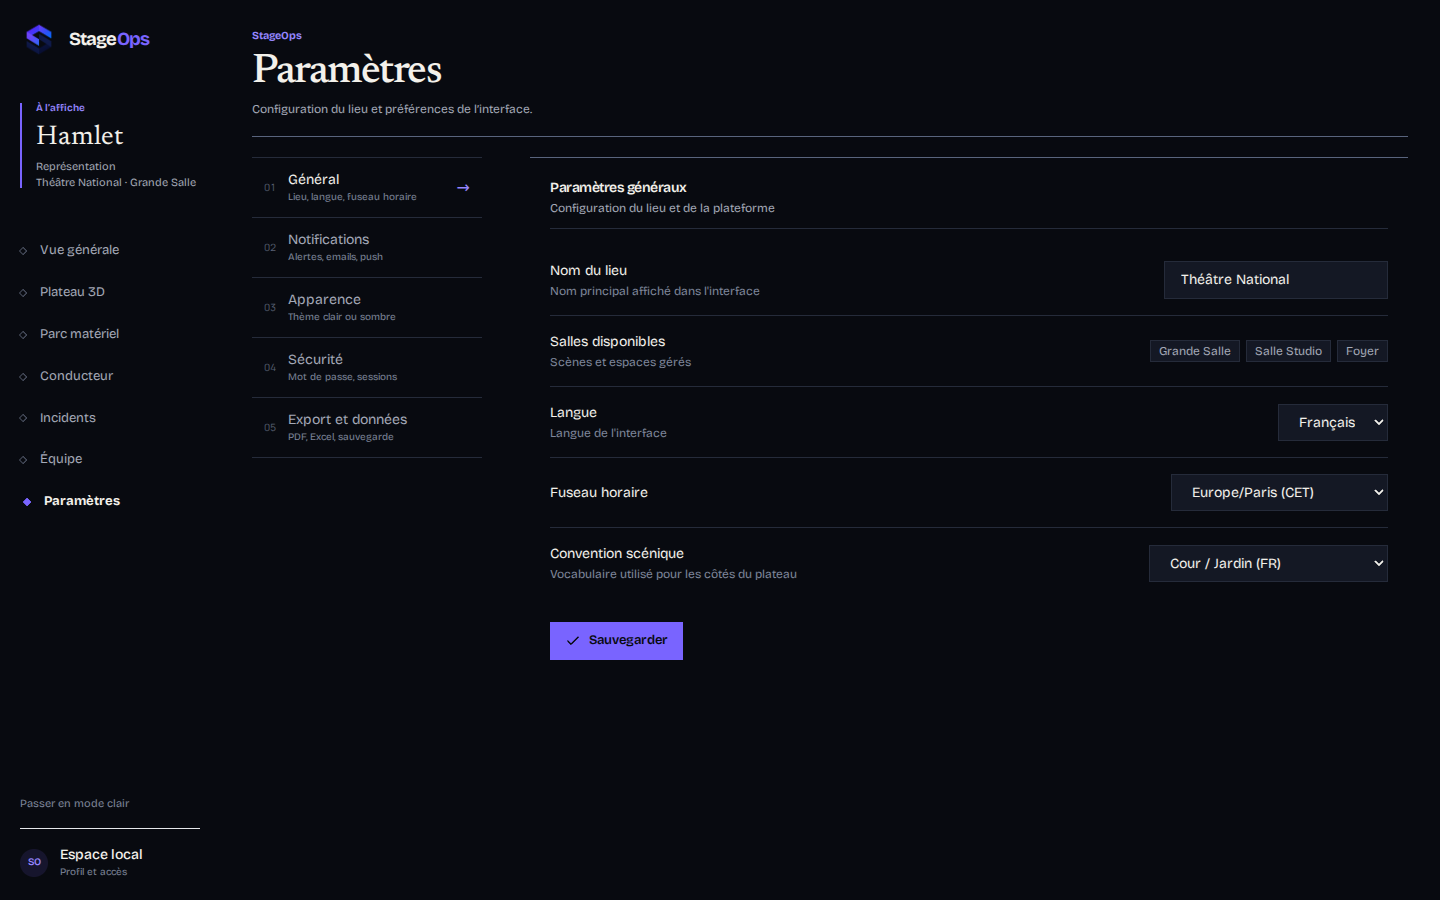
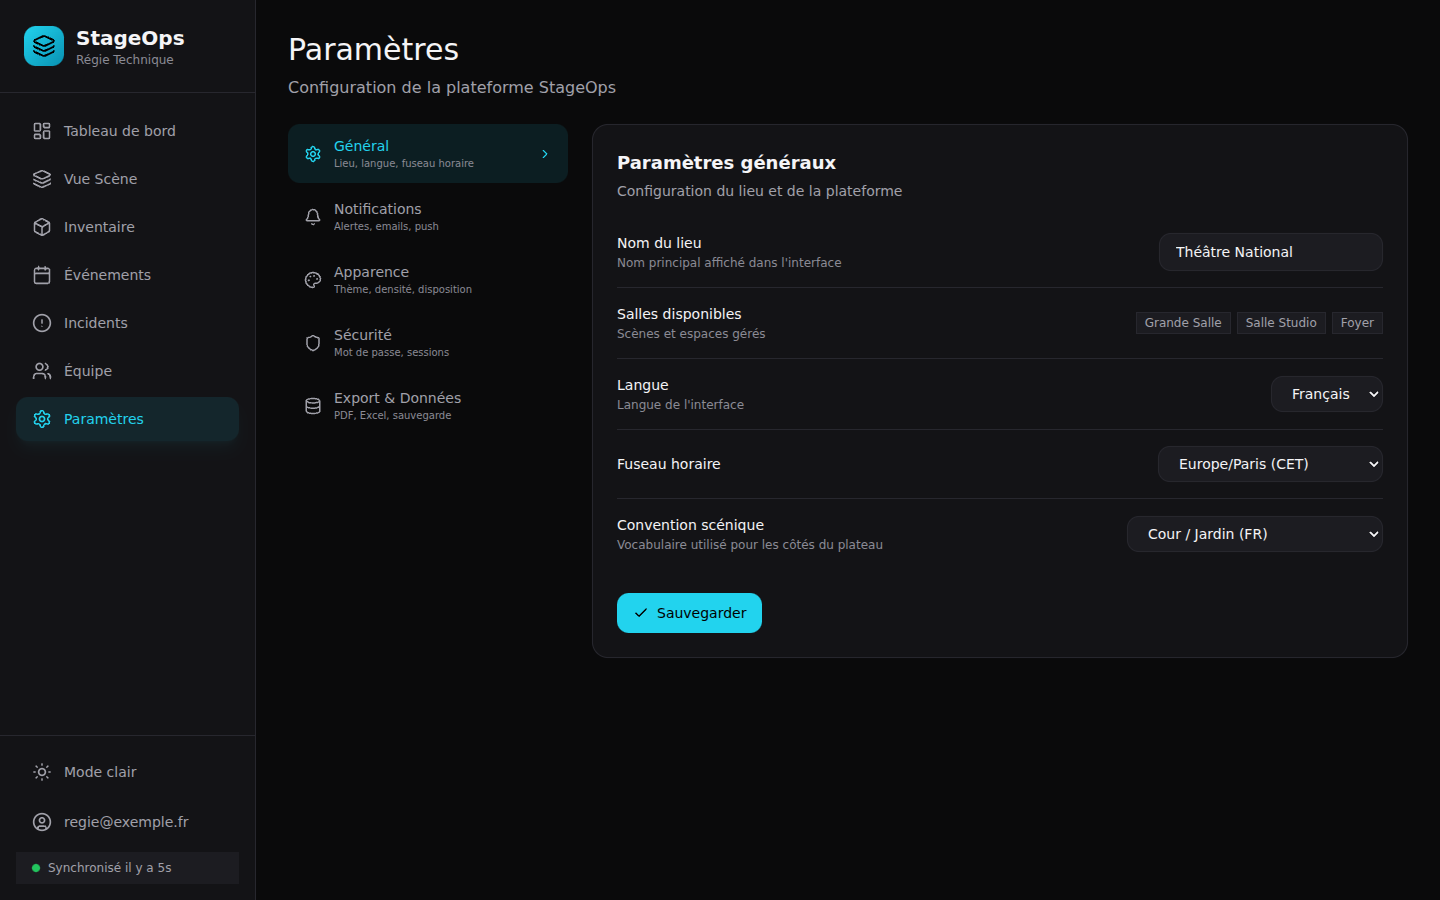
docs(ux): faire de la V0 le prototype de septembre (b8ae18f)
La V0 n'est pas 0d70257 (déjà refondu) mais le prototype d'origine,
b8ae18f du 24 septembre 2026, juste avant la série de refonte qui
commence par 15b0321. Les 19 captures de docs/ux/v0 sont remplacées.

Ce prototype exige une connexion vérifiée par l'API Go et n'a pas de
liens ?equipment= / ?incident= : capture-pages.mjs gagne les options
--session-factice (jeton et réponse /api/auth/me simulés, code de la V0
inchangé) et --ouvrir-par-clic. Le délai de capture est allongé pour la
modale floutée en rendu logiciel.

v0/README.md, versions.md et parcours-prioritaire.md décrivent la vraie
V0 : pas de mise en page mobile, données propres à chaque page,
« Synchronisé il y a 5s » fixe, bouton Escalader sans effet.

diff --git a/docs/ux/v0/README.md b/docs/ux/v0/README.md
@@ -1,15 +1,28 @@
 # V0 — captures de référence
 
-Preuve datée de l'interface **avant** la direction artistique Rideau.
+Preuve datée de l'interface du **prototype d'origine**, avant toute refonte visuelle et de parcours.
 
 | | |
 | --- | --- |
-| Version | V0 : commit `0d70257` (merge de la PR Web #5, 2 novembre 2026), parent direct de `21cf060 feat(ui): adopt Rideau visual direction` |
+| Version | V0 : commit `b8ae18f` (24 septembre 2026, *fix: make local development stack runnable*). C'est le prototype (PR Web #1) rendu lançable en local, juste avant la série de refonte du 25 septembre qui commence par `15b0321 feat(brand): establish StageOps visual identity` |
 | Captures réalisées le | 26 novembre 2026 |
-| Méthode | Worktree détaché sur `0d70257`, Node 24, `npm ci`, serveur `vite` local ; Playwright 1.65.1 (Chromium, rendu WebGL logiciel SwiftShader) avec [outils/capture-pages.mjs](../outils/capture-pages.mjs) |
-| Données | Contexte navigateur neuf pour chaque page : localStorage vide, donc scénario initial (*Hamlet*, Théâtre National) |
-| Thème | Celui par défaut de la V0 : sombre |
+| Méthode | Worktree détaché sur `b8ae18f`, Node 24, `npm ci`, serveur `vite` local ; Playwright 1.65.1 (Chromium, rendu WebGL logiciel SwiftShader) avec [outils/capture-pages.mjs](../outils/capture-pages.mjs) et les options `--session-factice --ouvrir-par-clic` |
+| Session | La V0 exige une connexion vérifiée par l'API Go (`/api/auth/me`). Pour capturer sans backend, le script place un jeton factice et répond lui-même avec un compte fictif `regie@exemple.fr`. Le code de la V0 n'est pas modifié ; seul l'e-mail affiché en bas du menu vient de cette simulation |
+| Fiche matériel et détail d'incident | La V0 n'a pas de liens `?equipment=` / `?incident=` : le script clique sur **Détails** de la ligne *Projecteur LED Robe BMFL* et sur la carte *Panne projecteur BMFL* |
+| Données | Contexte navigateur neuf pour chaque page : données fictives du prototype (*Hamlet*, Théâtre National) |
+| Thème | Celui par défaut de la V0 : sombre, accent cyan |
 | Formats | Bureau 1440 × 900 ; mobile 390 × 844 (tactile). Partie visible de l'écran, sans défilement |
+
+Les noms de fichiers sont les mêmes qu'en [V1](../v1/README.md) pour comparer page par page. Les libellés de la V0 diffèrent : *Tableau de bord*, *Vue Scène*, *Inventaire*, *Événements*.
+
+## Ce que montrent les captures
+
+- **Pas de mise en page mobile** : à 390 px, le menu latéral occupe l'écran et le contenu est écrasé (voir `mobile-*.png`). La mise en page responsive arrive le lendemain (`b6889a8`).
+- **Indicateur trompeur** : « Synchronisé il y a 5s » est un texte fixe ; aucune synchronisation n'existe.
+- **Actions factices** : dans le détail d'un incident, **Escalader** ferme seulement la fenêtre.
+- **Données non partagées** : chaque page part des données fictives ; un incident créé n'existe que dans la page Incidents, sans effet sur l'inventaire ni le tableau de bord, et disparaît au rechargement.
+- **Tableau de bord** : quatre compteurs colorés, un bloc *Équipements HS* qui nomme directement le *Projecteur LED Robe BMFL*, un bloc *Incidents récents*.
+- **Vue Scène** : plateau vide, sans compteur ni lien vers l'inventaire.
 
 ## Bureau
 
@@ -17,17 +30,17 @@ Preuve datée de l'interface **avant** la direction artistique Rideau.
 | --- | --- |
 | [bureau-01-connexion.png](bureau-01-connexion.png) | `/login` |
 | [bureau-02-inscription.png](bureau-02-inscription.png) | `/register` |
-| [bureau-03-vue-generale.png](bureau-03-vue-generale.png) | `/` |
-| [bureau-04-plateau-3d.png](bureau-04-plateau-3d.png) | `/stage` |
+| [bureau-03-vue-generale.png](bureau-03-vue-generale.png) | `/` (Tableau de bord) |
+| [bureau-04-plateau-3d.png](bureau-04-plateau-3d.png) | `/stage` (Vue Scène) |
 | [bureau-05-editeur-3d.png](bureau-05-editeur-3d.png) | `/editor` |
-| [bureau-06-parc-materiel.png](bureau-06-parc-materiel.png) | `/equipment` |
-| [bureau-07-conducteur.png](bureau-07-conducteur.png) | `/events` |
+| [bureau-06-parc-materiel.png](bureau-06-parc-materiel.png) | `/equipment` (Inventaire) |
+| [bureau-07-conducteur.png](bureau-07-conducteur.png) | `/events` (Événements) |
 | [bureau-08-incidents.png](bureau-08-incidents.png) | `/incidents` |
 | [bureau-09-equipe.png](bureau-09-equipe.png) | `/team` |
 | [bureau-10-parametres.png](bureau-10-parametres.png) | `/settings` |
 | [bureau-11-profil.png](bureau-11-profil.png) | `/profile` |
-| [bureau-12-fiche-materiel-bmfl.png](bureau-12-fiche-materiel-bmfl.png) | `/equipment?equipment=eq-002` (étape 3 du parcours prioritaire) |
-| [bureau-13-detail-incident-bmfl.png](bureau-13-detail-incident-bmfl.png) | `/incidents?incident=inc-001` (étape 4 du parcours prioritaire) |
+| [bureau-12-fiche-materiel-bmfl.png](bureau-12-fiche-materiel-bmfl.png) | `/equipment`, puis **Détails** du BMFL (étape 3 du parcours prioritaire) |
+| [bureau-13-detail-incident-bmfl.png](bureau-13-detail-incident-bmfl.png) | `/incidents`, puis carte *Panne projecteur BMFL* (étape 4 du parcours prioritaire) |
 
 ## Mobile
 
@@ -43,10 +56,10 @@ Preuve datée de l'interface **avant** la direction artistique Rideau.
 ## Refaire les captures
 
 ```sh
-git worktree add --detach /tmp/stageops-v0 0d70257
-cd /tmp/stageops-v0/StageOps_Web && npm ci && npx vite --port 5190 --strictPort
+git worktree add --detach /tmp/stageops-v0 b8ae18f
+cd /tmp/stageops-v0/StageOps_Web && npm ci && npx vite --port 5192 --strictPort
 # puis, depuis un dossier où Playwright est installé (voir l'en-tête du script) :
-node capture-pages.mjs http://localhost:5190 <repo>/docs/ux/v0
+node capture-pages.mjs http://localhost:5192 <repo>/docs/ux/v0 --session-factice --ouvrir-par-clic
 ```
 
 Les dates relatives (« il y a 3 mois ») dépendent du jour de capture.

diff --git a/docs/ux/versions.md b/docs/ux/versions.md
@@ -4,8 +4,8 @@ Chaque ligne décrit le passage d'une version à la suivante : ce qui a été ob
 
 | Version | Référence | Problème observé | Modification | Raison | Résultat au test suivant |
 | --- | --- | --- | --- | --- | --- |
-| **V0** | Site avant la refonte : commit `0d70257` (2 novembre 2026). Captures datées dans [v0/](v0/README.md). | Pas de test utilisateur sur la V0. Constats de l'équipe lors de la DA Rideau ([DESIGN.md](../../DESIGN.md), commits de la PR #7) : thème sombre par défaut avec bascule clair/sombre ; signalement d'incident accessible seulement depuis la page Incidents ; styles cyan hérités sur les écrans de travail. Lecture des captures : Vue générale dense (bandeau de 4 indicateurs, 6 incidents, feuille du jour). | — (état de départ) | — | Sert de référence pour comparer la V1. |
-| **V1** | Maquette DA Rideau ([Figma](../brand/StageOps_DA_Rideau_Figma.svg), [DESIGN.md](../../DESIGN.md)) et son intégration, PR Web #7, `main` au commit `97ad1c3`. Captures datées dans [v1/](v1/README.md). | Les constats de la V0 ci-dessus. | Thème clair unique (fond `#F8F4F0`, velours, pourpre, or) ; DM Sans pour l'interface ; en-tête commun avec la section active et « Données locales » ; bouton **+ Signaler un incident** permanent sur grand écran ; Vue générale recentrée sur la production, « À traiter maintenant » (3 incidents), matériel et plateau ; surfaces et couleurs d'état partagées. | Lisibilité d'un poste de régie et repérage en quelques secondes ; garder le logo, le pourpre et l'or ; chaque état reste écrit, jamais seulement coloré. | **À remplir après le round 1** ([protocole](protocole-round1.md)). Points à surveiller : 3D non reliée au matériel ([#33](https://github.com/StageOps-EIP/StageOps/issues/33)), incident lié absent de la fiche matériel ([#38](https://github.com/StageOps-EIP/StageOps/issues/38)), pas d'assignation d'incident. |
+| **V0** | Prototype d'origine : commit `b8ae18f` (24 septembre 2026), avant la série de refonte du 25 septembre. Captures datées dans [v0/](v0/README.md). | Pas de test utilisateur sur la V0. Constats tirés du code et des captures : aucune mise en page mobile (le menu latéral occupe l'écran à 390 px) ; connexion obligatoire via l'API Go, rien n'est utilisable sans backend ; données fictives propres à chaque page, un incident créé ne change ni l'inventaire ni le tableau de bord et disparaît au rechargement ; indicateur « Synchronisé il y a 5s » fixe et bouton **Escalader** sans effet ; thème sombre à accent cyan ; signalement seulement depuis la page Incidents ; Vue Scène vide, sans lien avec l'inventaire. | — (état de départ) | — | Sert de référence pour comparer la V1. |
+| **V1** | Maquette DA Rideau ([Figma](../brand/StageOps_DA_Rideau_Figma.svg), [DESIGN.md](../../DESIGN.md)) et son intégration, PR Web #7, `main` au commit `97ad1c3`. Captures datées dans [v1/](v1/README.md). | Les constats de la V0 ci-dessus. | Entre V0 et V1, trois étapes. **Septembre** (`15b0321` → `1890ad5`) : identité StageOps, navigation responsive avec barre d'onglets mobile, accès sans compte (espace local), écrans de travail repensés. **Octobre** (`4669f5c` → PR Web #2 à #6) : données matériel/incidents partagées et enregistrées dans le navigateur, règles incident → état du matériel, export CSV, architecture en couches, scène 3D enregistrée, conduite et rendu 3D refondus. **Novembre** (DA Rideau, PR Web #7) : thème clair unique (fond `#F8F4F0`, velours, pourpre, or), DM Sans, en-tête commun avec la section active et « Données locales », bouton **+ Signaler un incident** permanent sur grand écran, Vue générale recentrée (« À traiter maintenant », matériel, plateau), surfaces et couleurs d'état partagées. | Pouvoir utiliser l'outil sans backend et sur téléphone ; qu'un incident signalé soit visible partout ; lisibilité d'un poste de régie et repérage en quelques secondes ; garder le logo, le pourpre et l'or ; chaque état reste écrit, jamais seulement coloré. | **À remplir après le round 1** ([protocole](protocole-round1.md)). Points à surveiller : 3D non reliée au matériel ([#33](https://github.com/StageOps-EIP/StageOps/issues/33)), incident lié absent de la fiche matériel ([#38](https://github.com/StageOps-EIP/StageOps/issues/38)), pas d'assignation d'incident. |
 | **V2** | À définir après le round 1. Candidats déjà en relecture : PR Web #8 ([#37](https://github.com/StageOps-EIP/StageOps/issues/37), [#38](https://github.com/StageOps-EIP/StageOps/issues/38)) et PR Web #9 ([#39](https://github.com/StageOps-EIP/StageOps/issues/39), [#40](https://github.com/StageOps-EIP/StageOps/issues/40)), non intégrées à ce jour. | Résultats du round 1 sur la V1. | | | À remplir après le round 2. |
 | **V3** | À définir après le round 2. | Résultats du round 2 sur la V2. | | | À remplir après le round 3. |
 

diff --git a/docs/ux/parcours-prioritaire.md b/docs/ux/parcours-prioritaire.md
@@ -64,12 +64,16 @@ Le test garde ces étapes volontairement : on mesure ce que la personne attend d
 
 ## Différences avec la V0
 
-| Point | V0 (`0d70257`) | V1 (`main`) |
+| Point | V0 (`b8ae18f`, prototype de septembre) | V1 (`main`) |
 | --- | --- | --- |
-| Thème | Sombre par défaut, bascule clair/sombre | Clair uniquement |
-| Signaler un incident | Seulement depuis la page Incidents | Bouton permanent dans la barre du haut (grand écran) |
-| Vue générale | 6 incidents actifs listés, indicateurs en bandeau | 3 incidents « À traiter maintenant », bloc Matériel avec premier équipement à contrôler |
-| 3D, fiche matériel, détail incident | Même logique, mêmes manques | Même logique, mêmes manques |
+| Accès | Connexion obligatoire via l'API Go | Espace local sans compte |
+| Téléphone | Aucune mise en page mobile | Barre d'onglets en bas, écrans adaptés |
+| Thème et libellés | Sombre, cyan ; *Tableau de bord*, *Vue Scène*, *Inventaire*, *Événements* | Clair Rideau ; *Vue générale*, *Plateau 3D*, *Parc matériel*, *Conducteur* |
+| Étape 1 (ouvrir la 3D) | Bouton **Ouvrir Vue Scène** dans la carte de la représentation | Lien **Ouvrir le plateau 3D** et bloc *Plateau 3D* |
+| Étape 2 (repérer le HS) | 3D vide. Le tableau de bord a un bloc *Équipements HS* qui nomme le BMFL | 3D vide (« 0 objets »). Le bloc *Matériel* donne les compteurs et le premier équipement à contrôler |
+| Étape 3 (ouvrir l'incident) | Fiche matériel sans lien vers l'incident ; incident trouvé dans *Incidents récents* ou le Kanban | Même manque sur la fiche ; incident dans « À traiter maintenant », trié par gravité |
+| Étape 4 (assigner) | Pas d'assignation ; bouton **Escalader** sans effet | Pas d'assignation ; **Escalader** retiré |
+| Cohérence des données | Chaque page a ses propres données ; rien n'est enregistré | Matériel et incidents partagés et enregistrés dans le navigateur |
 
 Captures, mêmes noms de fichiers pour comparer : V0 [v0/](v0/README.md) · V1 [v1/](v1/README.md).
 
